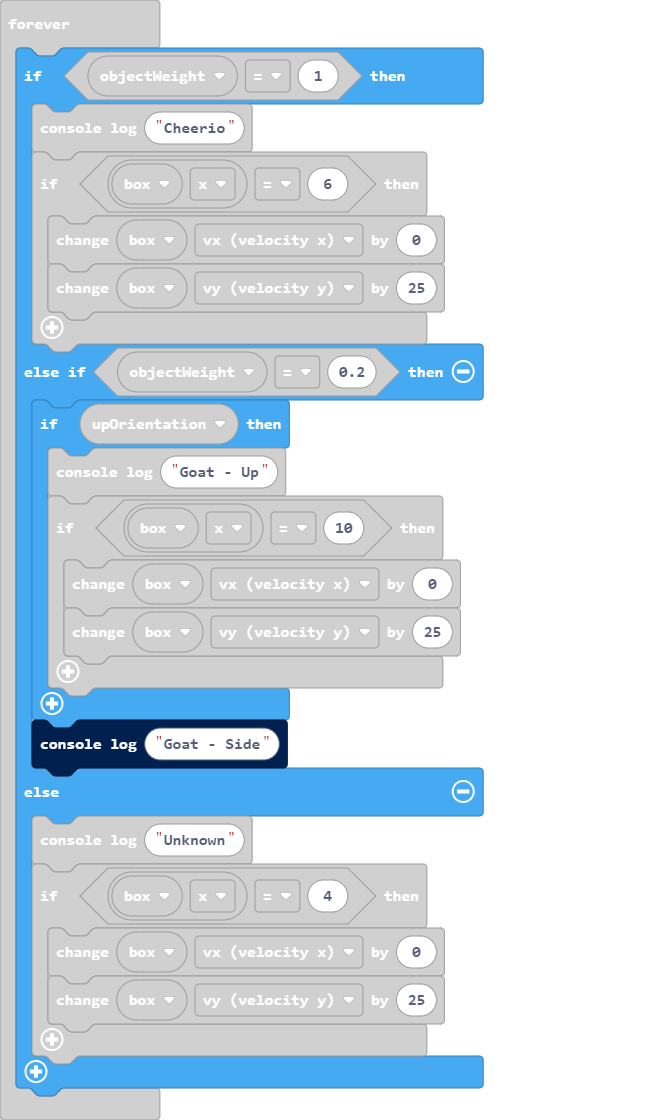
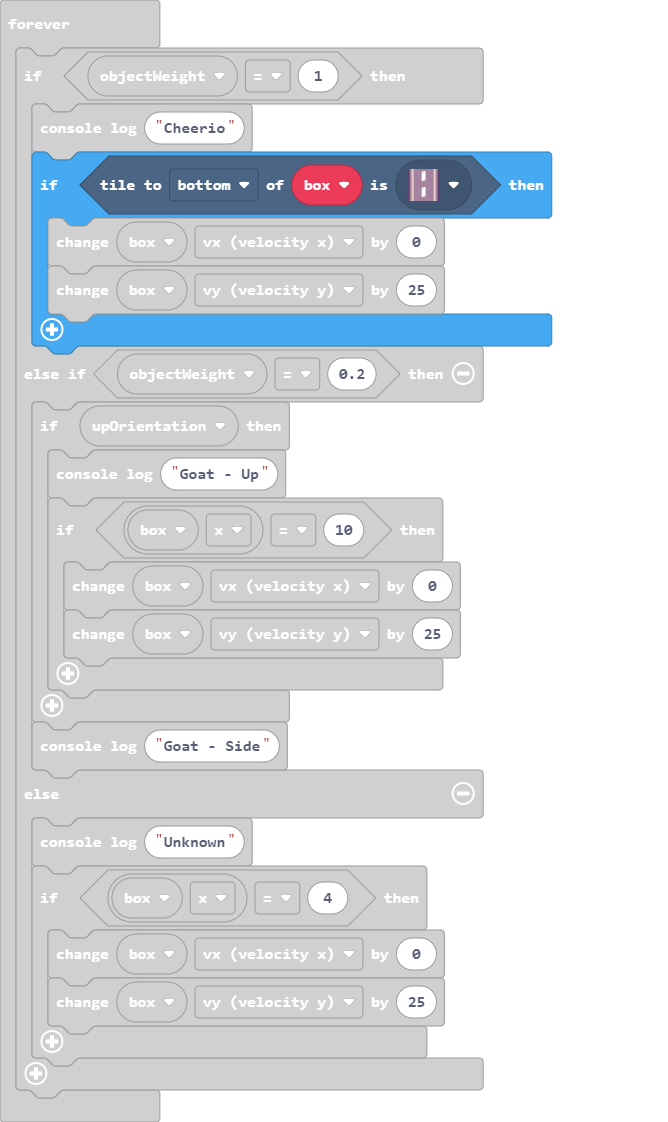
Update main.blocks, main.ts

Changed region(s): [[0.0, 0.0312, 0.8383, 1.0], [0.6287, 0.5, 0.6587, 0.5938], [0.1198, 0.5, 0.1796, 0.5312]]

diff --git a/main.ts b/main.ts
@@ -261,7 +261,7 @@ resetBox()
 forever(function () {
     if (objectWeight == 1) {
         console.log("Cheerio")
-        if (box.x == 6) {
+        if (box.tileKindAt(TileDirection.Bottom, sprites.vehicle.roadVertical)) {
             box.vx += 0
             box.vy += 25
         }
